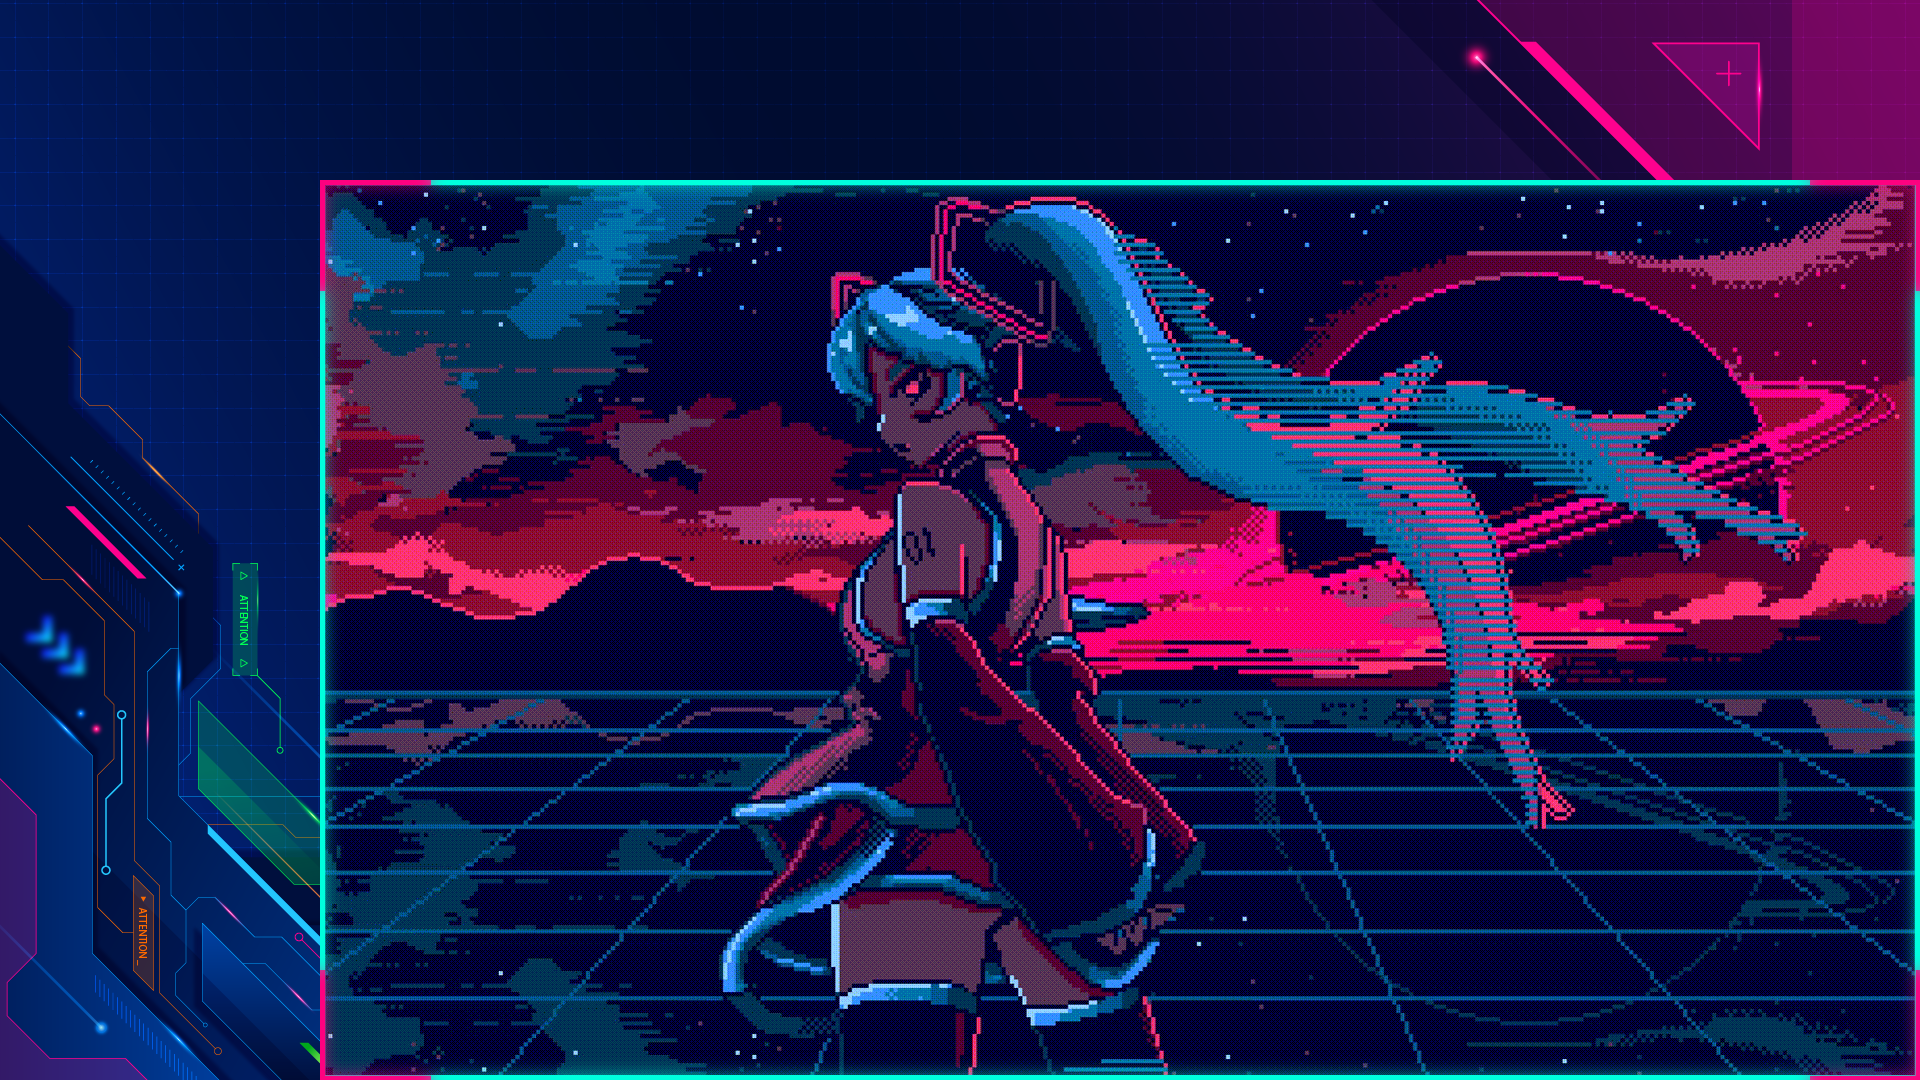
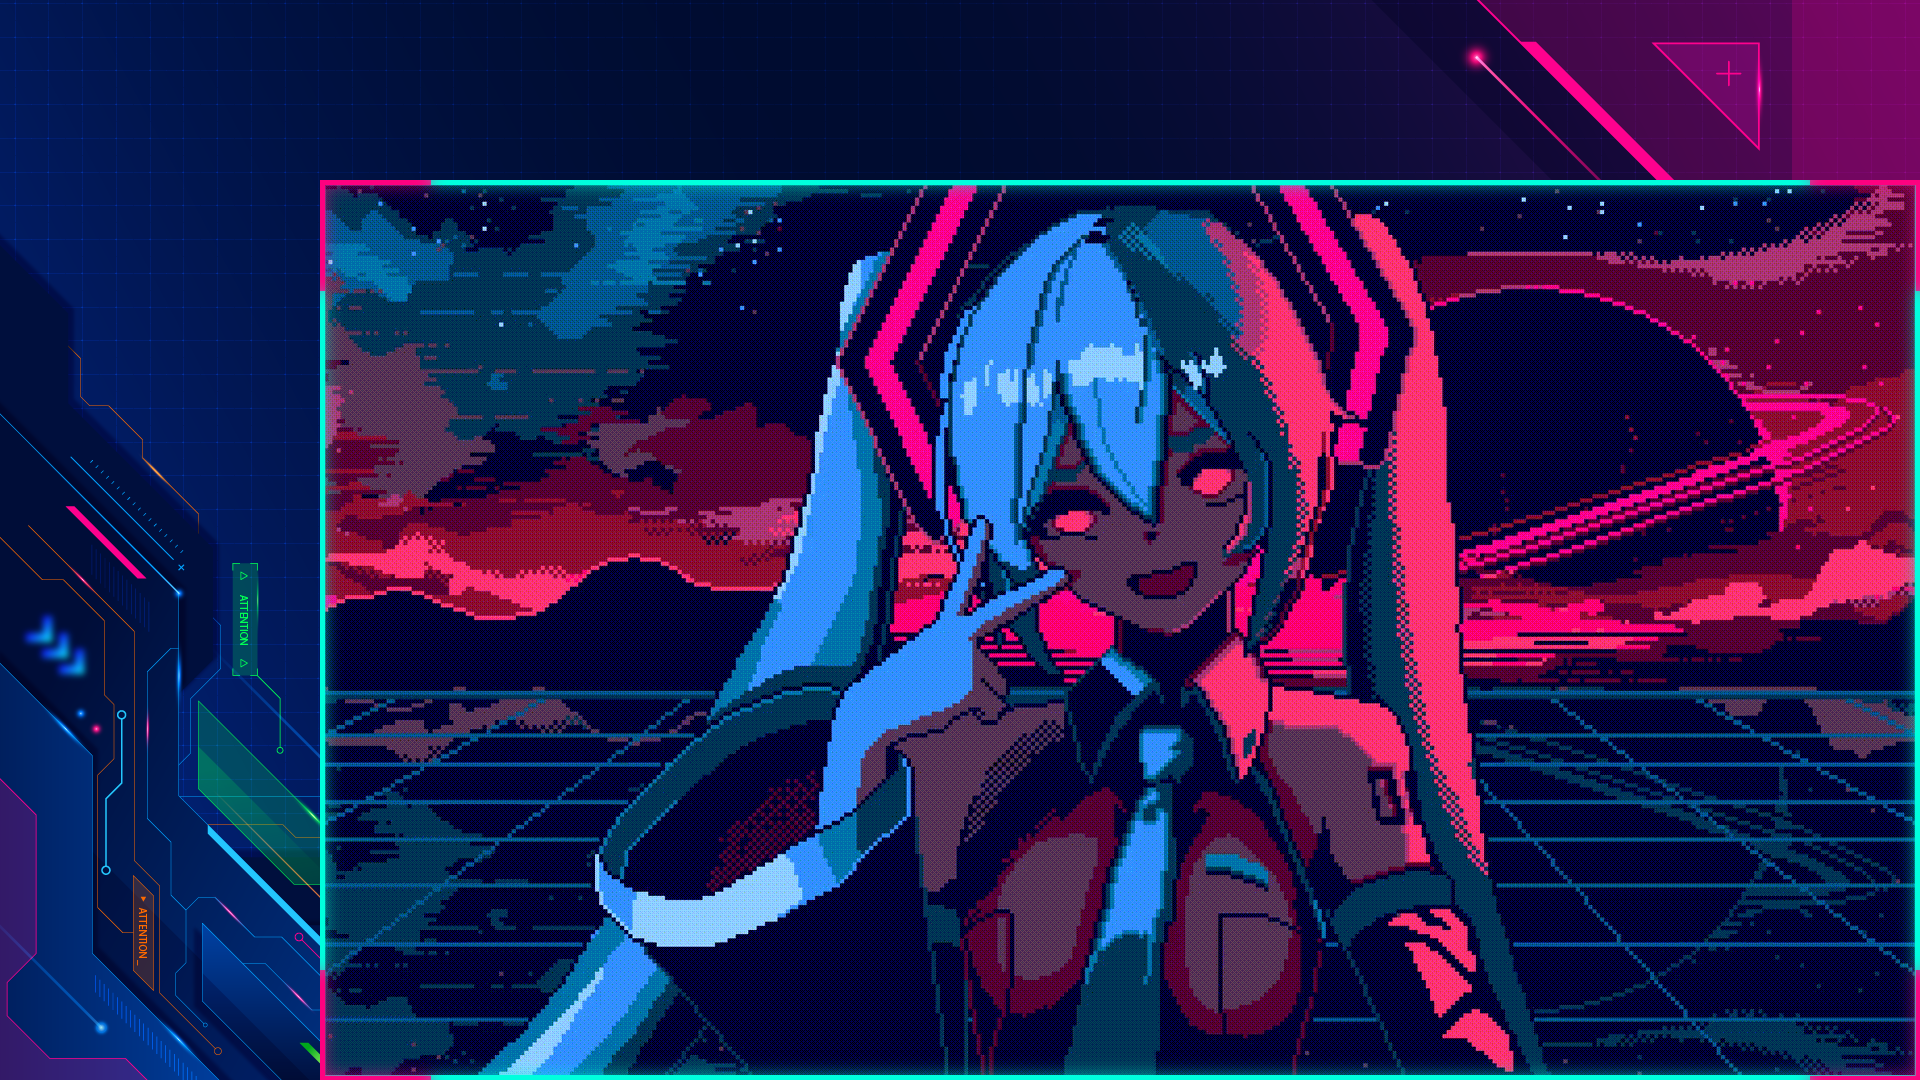
feat: a TV with a bad antenna for the session splash
The curtain now breaks up like a broken television: a crawling static layer,
rolling scanlines, a colour separation that wanders and slices that jump to
a new random offset every tick, with dropout blocks and colour bars
appearing at random. The picture stays readable through the noise - the
static breaks it up, it does not replace it.

The amount of noise is configurable: the wallpaper switch keeps it subtle,
the session splash runs at full strength.

The session splash also shows Miku_animated4 now instead of
Miku_animated_full.

diff --git a/bin/glitch_transition.qml b/bin/glitch_transition.qml
@@ -22,6 +22,14 @@ ShellRoot {
   // Safety net, so the overlay can never stay on the screen.
   property int timeout: parseInt(Quickshell.env("VP_TRANSITION_TIMEOUT") || "4500", 10)
 
+  // How hard the signal breaks up. The wallpaper switch can stay subtle, the
+  // session splash wants the full "TV with a bad antenna" look.
+  property real noiseLevel: parseFloat(Quickshell.env("VP_TRANSITION_NOISE") || "0.35")
+
+  // A counter the random jitter is derived from: every tick the picture
+  // shifts, so the static keeps crawling instead of sitting still.
+  property int tick: 0
+
   // The transition is only worth showing if it is seen. The wallpaper is
   // usually ready in a fraction of a second, and a glitch that flashes past
   // reads as a flicker instead of a transition - so the curtain holds for a
@@ -226,6 +234,32 @@ ShellRoot {
           id: slice5
           width: win.width; height: win.height * 0.15; y: win.height * 0.82; clip: true; x: 0
           Image { width: win.width; height: win.height; x: -slice5.x; y: -slice5.y; source: Qt.resolvedUrl(root.baseImage); fillMode: Image.PreserveAspectCrop }
+        }
+
+        // -------------------------------------------------------------
+        // TV STATIC: the picture keeps crawling, the lines roll and the
+        // whole frame jumps around.
+        // -------------------------------------------------------------
+        Image {
+          id: noiseLayer
+          anchors.fill: parent
+          source: Qt.resolvedUrl("noise.jpg")
+          fillMode: Image.PreserveAspectCrop
+          // The static breaks the picture up, it does not replace it: the
+          // picture has to stay readable through the noise.
+          opacity: root.noiseLevel * 0.30
+          visible: root.noiseLevel > 0
+          cache: true
+        }
+
+        Image {
+          id: scanLayer
+          anchors.fill: parent
+          source: Qt.resolvedUrl("scanlines.png")
+          fillMode: Image.Stretch
+          opacity: 0.30
+          visible: root.noiseLevel > 0
+          cache: true
         }
 
         // Black signal dropout blocks
@@ -456,8 +490,52 @@ ShellRoot {
       }
 
       // -------------------------------------------------------------
-      // PHASE 2: GLITCH LOADING LOOP (Active until wallpaper is ready)
+      // PHASE 2: THE SIGNAL BREAKS UP (Active until the picture is ready)
       // -------------------------------------------------------------
+      // Every tick the slices jump to a new random offset, the picture crawls
+      // and the colour split wanders. That is what a broken TV looks like.
+      Timer {
+        interval: 40
+        repeat: true
+        running: !root.isReady && !root.exiting && !win.hasStartedExit
+        onTriggered: {
+          root.tick = (root.tick + 1) % 997;
+
+          const jump = 34 * root.noiseLevel + 6;
+          slice1.x = Math.random() * jump * 2 - jump;
+          slice1.y = Math.random() * jump * 0.5 - jump * 0.25;
+          slice2.x = Math.random() * jump * 2.4 - jump * 1.2;
+          slice2.y = Math.random() * jump * 0.4 - jump * 0.2;
+          slice3.x = Math.random() * jump * 2.8 - jump * 1.4;
+          slice3.y = Math.random() * jump * 0.6 - jump * 0.3;
+          slice4.x = Math.random() * jump * 2.2 - jump * 1.1;
+          slice4.y = Math.random() * jump * 0.5 - jump * 0.25;
+          slice5.x = Math.random() * jump * 2.6 - jump * 1.3;
+          slice5.y = Math.random() * jump * 0.4 - jump * 0.2;
+
+          cyanShift.x = -6 - Math.random() * 26 * root.noiseLevel;
+          redShift.x = 6 + Math.random() * 26 * root.noiseLevel;
+
+          noiseLayer.x = Math.random() * 60 - 30;
+          noiseLayer.y = Math.random() * 60 - 30;
+          scanLayer.y = (root.tick % 4) * 1.5 - 3;
+
+          blackBlock1.opacity = Math.random() < 0.18 * root.noiseLevel + 0.05 ? 0.85 : 0;
+          blackBlock2.opacity = Math.random() < 0.15 * root.noiseLevel + 0.05 ? 0.85 : 0;
+          blackBlock1.x = Math.random() * win.width * 0.3;
+          blackBlock2.x = Math.random() * win.width * 0.4;
+          blackBlock1.y = Math.random() * win.height * 0.8;
+          blackBlock2.y = Math.random() * win.height * 0.85;
+
+          cyanBar1.opacity = Math.random() < 0.25 * root.noiseLevel + 0.05 ? 0.9 : 0;
+          pinkBar1.opacity = Math.random() < 0.25 * root.noiseLevel + 0.05 ? 0.9 : 0;
+          yellowBar1.opacity = Math.random() < 0.2 * root.noiseLevel + 0.05 ? 0.85 : 0;
+          cyanBar1.y = Math.random() * win.height * 0.9;
+          pinkBar1.y = Math.random() * win.height * 0.9;
+          yellowBar1.y = Math.random() * win.height * 0.9;
+        }
+      }
+
       SequentialAnimation {
         id: loadingLoopAnim
         loops: Animation.Infinite

diff --git a/README.md b/README.md
@@ -14,7 +14,7 @@
 [![Arch Linux](https://img.shields.io/badge/Arch_Linux-1793D1?style=flat-square&logo=arch-linux&logoColor=white)](https://archlinux.org)
 [![Omarchy 4.0+](https://img.shields.io/badge/Omarchy-4.0+-8A2BE2?style=flat-square)](https://omarchy.org)
 [![Hyprland](https://img.shields.io/badge/Hyprland-Wayland-00ffdd?style=flat-square)](https://hyprland.org)
-[![Tests](https://img.shields.io/badge/tests-266%20passed-00ff88?style=flat-square)](tests/)
+[![Tests](https://img.shields.io/badge/tests-270%20passed-00ff88?style=flat-square)](tests/)
 [![License](https://img.shields.io/badge/license-MIT-ffe066?style=flat-square)](LICENSE)
 [![Version](https://img.shields.io/badge/version-1.2.2-ff00ff?style=flat-square)](VERSION)
 
@@ -215,7 +215,9 @@ The same artwork is used for the **session splash**: between the greeter
 handing the screen to the session and the desktop having something to show
 (about three seconds), the glitch curtain - the same one the live wallpaper
 switch plays - runs over the theme's picture and fades out as soon as the
-shell is up, instead of a black screen.
+shell is up, instead of a black screen. The curtain breaks up like a bad TV:
+crawling static, rolling scanlines, wandering colour separation and slices
+that jump to a new random offset every tick.
 
 The password prompt in Plymouth sits *below* the picture, in the bar under the
 neon frame, so it never covers the animation.
@@ -360,7 +362,7 @@ The uninstaller will:
 
 ### Running Tests
 
-The test suite has sixteen test cases and 266 assertions; optional tools
+The test suite has sixteen test cases and 270 assertions; optional tools
 (`shellcheck`, `qmllint`, `hyprctl`) enable extra checks when present, so the
 exact count varies between machines (171 with `shellcheck`, 170 without). It
 runs in a sandbox and never touches your real system.

diff --git a/CHANGELOG.md b/CHANGELOG.md
@@ -42,6 +42,13 @@ Conventional Commits.
   same glitch curtain as the live wallpaper switch - over the theme's cyber
   artwork - and fades out as soon as the shell answers, so the whole way from
   the firmware to the desktop is one picture instead of a black screen.
+- **The glitch effect breaks up like a bad TV.** The curtain now has a
+  crawling static layer, rolling scanlines, colour separation that wanders and
+  slices that jump to a new random offset every tick, with dropout blocks and
+  colour bars appearing at random. The picture stays readable through it, and
+  the amount of noise is configurable: the wallpaper switch keeps it subtle,
+  the session splash runs at full strength.
+- **The session splash shows Miku_animated4** instead of Miku_animated_full.
 - **The live wallpaper is visible right after logging in.** The video is
   drawn on the same layer as the shell's static background, and a layer
   created later ends up on top. The autostart hook started mpvpaper before
